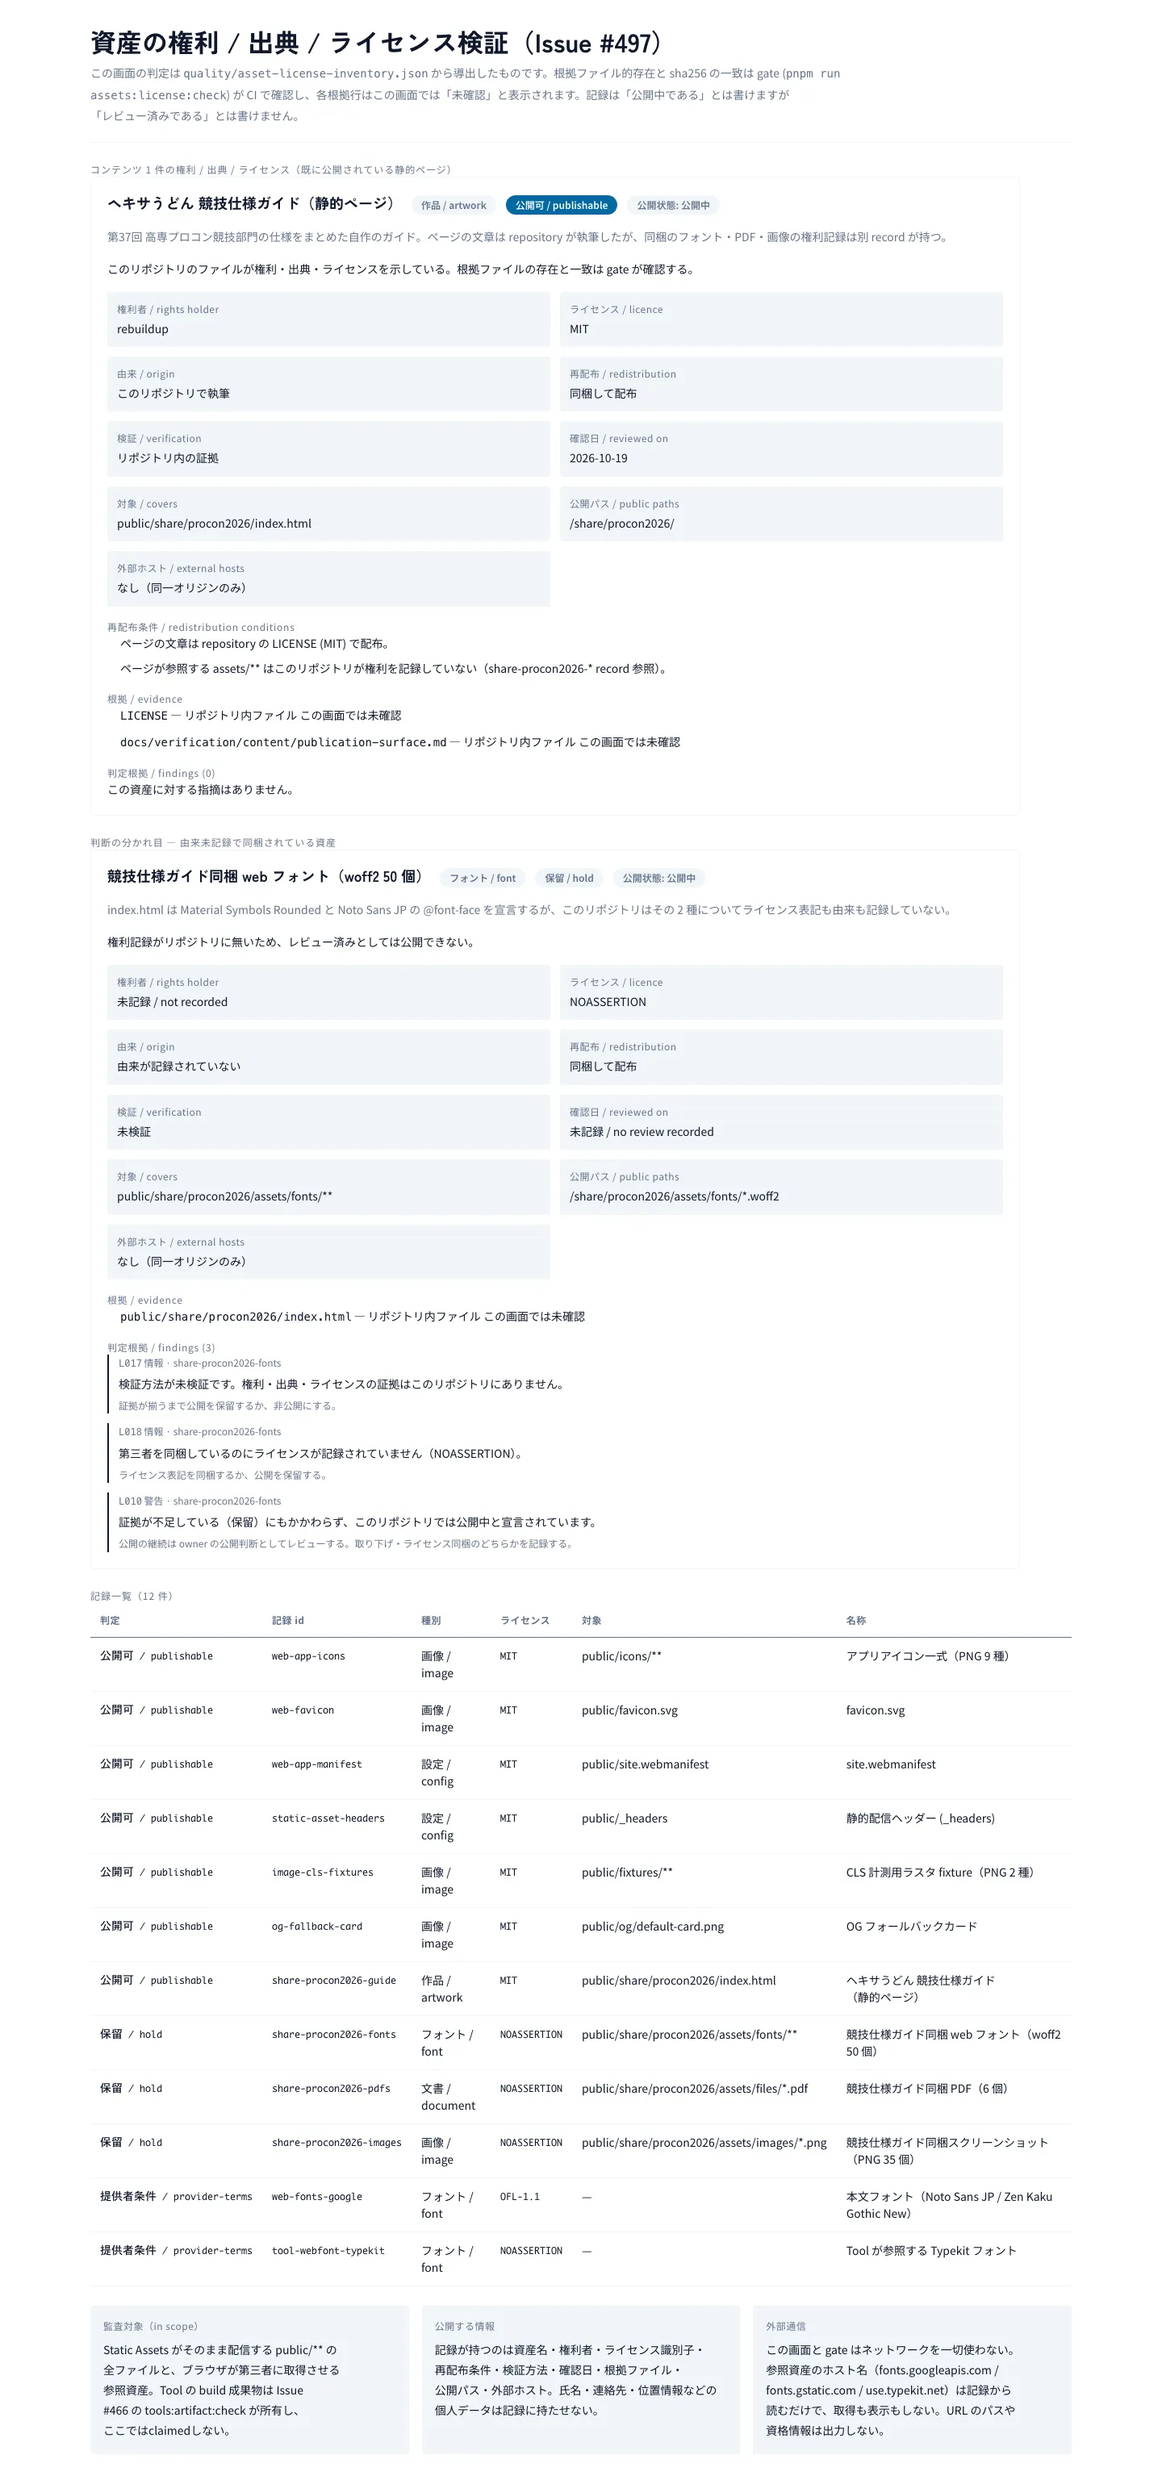
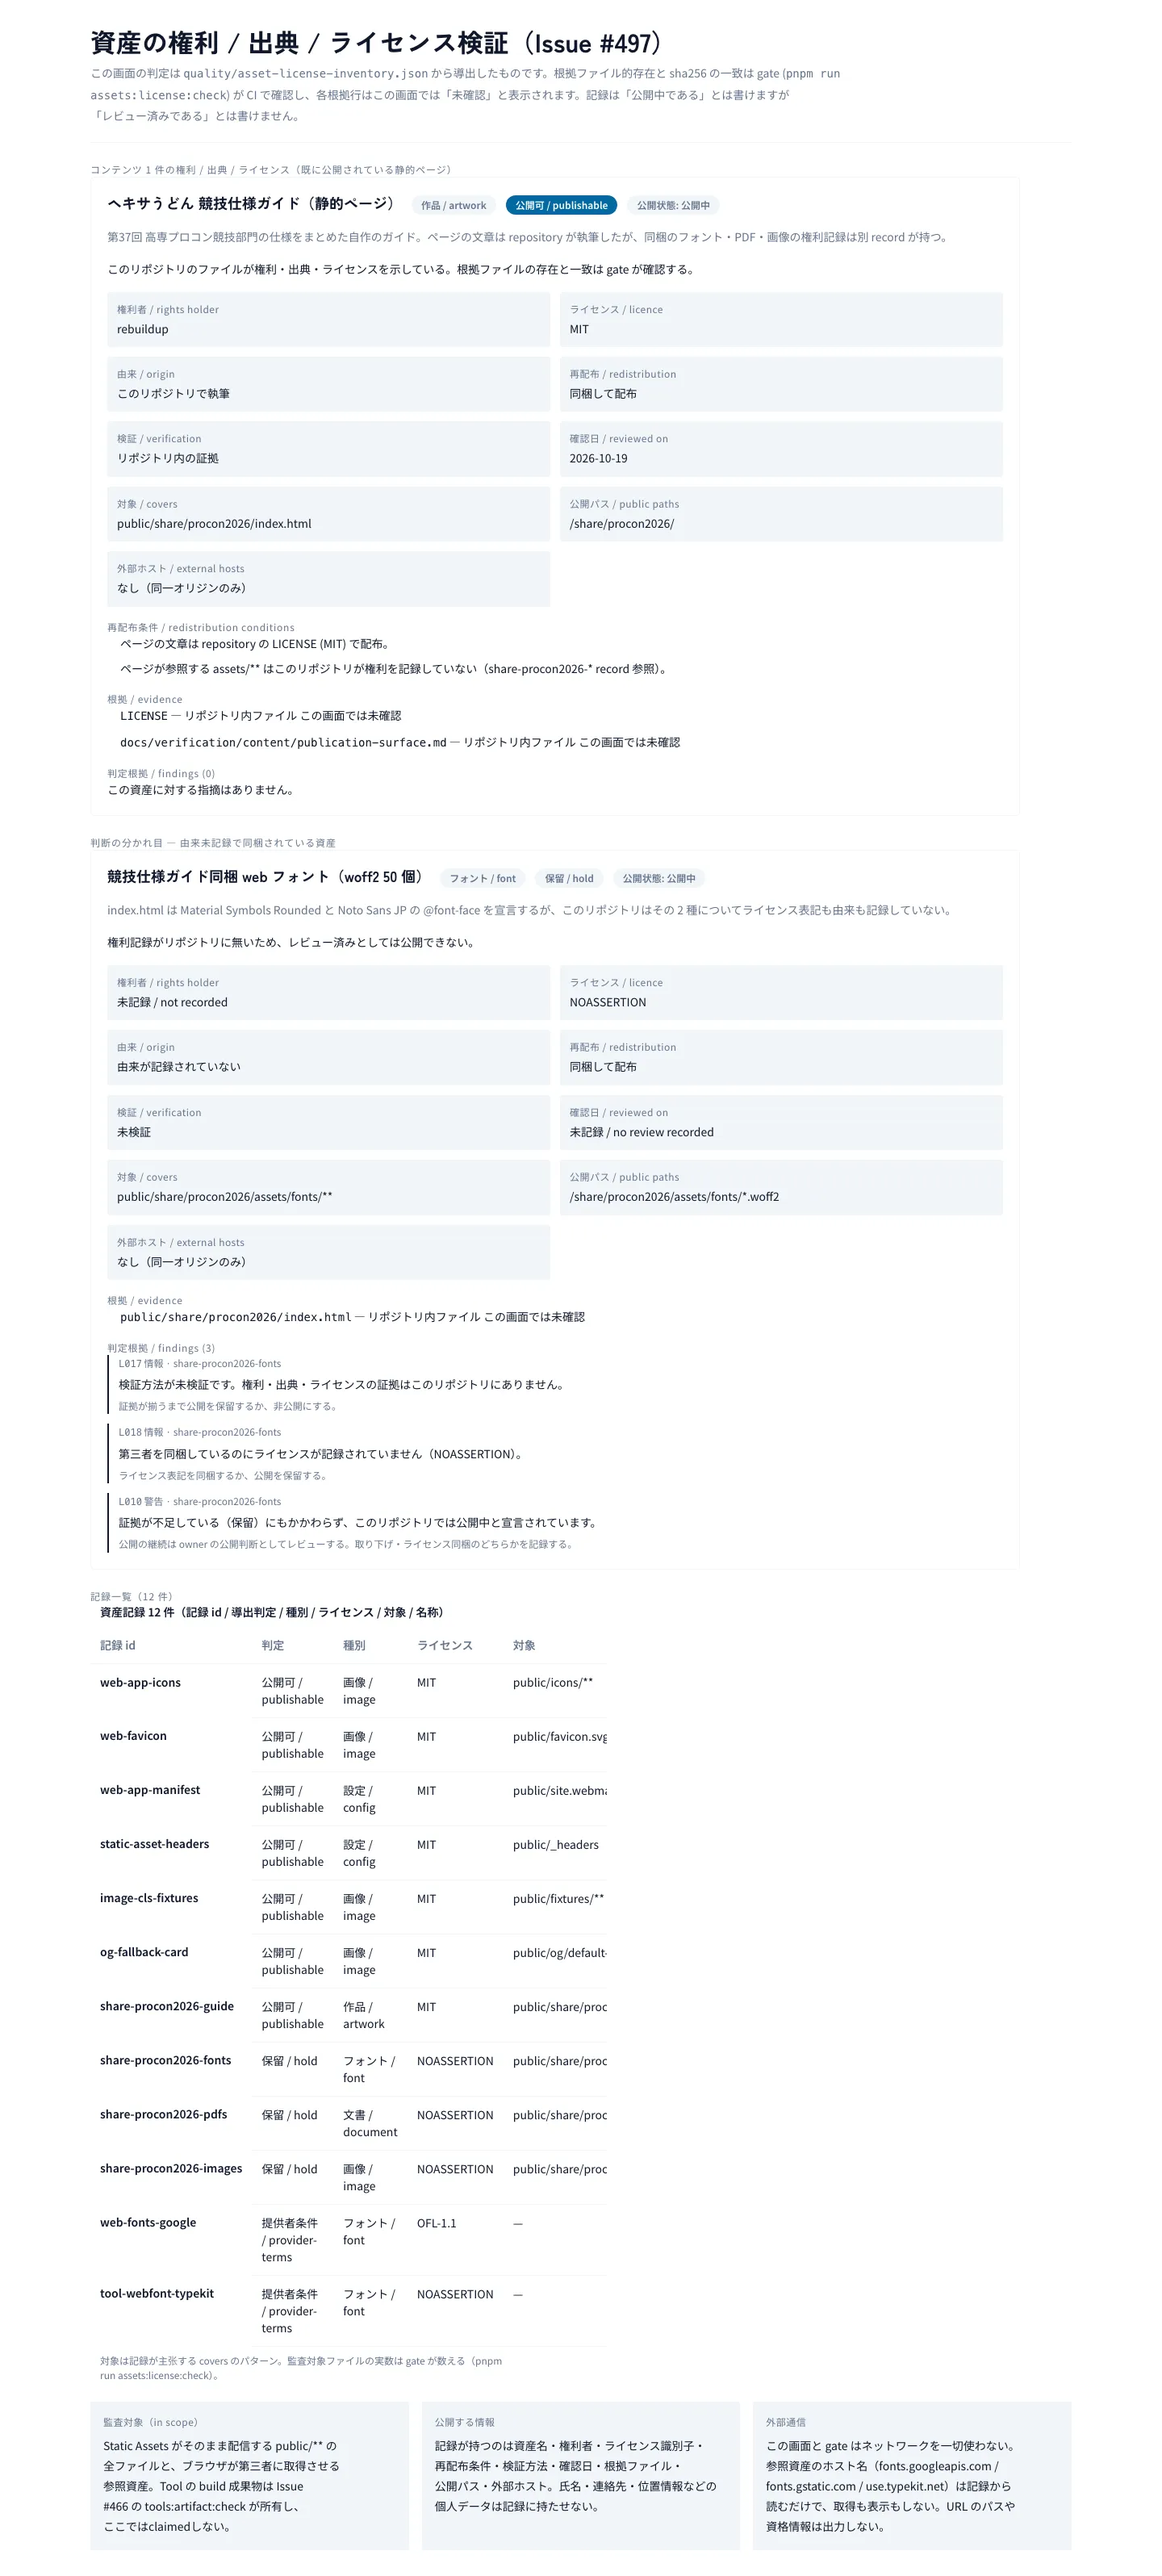
fix(legal): declare the legal surface in the browser-baseline ledger and use the shipped DataTable (#497)
Two gates the new obligation tripped, both about owning the same file
twice:

-  requires every scanned file under  to belong to a
  declared surface, so  is now a surface with a role
  instead of three uncovered files.
-  requires a table to carry a caption and scoped
  headers; the inventory roster now renders the shipped
  primitive instead of a hand-rolled .

The record roster's first column is the record id because the primitive
renders  as the row header cell.

diff --git a/src/legal/AssetLicenseReview.stories.tsx b/src/legal/AssetLicenseReview.stories.tsx
@@ -1,6 +1,7 @@
 import type { Meta, StoryObj } from '@storybook/react';
 import inventoryJson from '../../quality/asset-license-inventory.json';
 import { css, cx } from '../../styled-system/css';
+import { DataTable, type TableColumn, type TableRow } from '../editorial/table-code';
 import { AssetLicenseReview } from './AssetLicenseReview';
 import {
 	type AssetLicenseRecord,
@@ -135,40 +136,6 @@ const sectionTitleClassName = css({
 	color: 'text.muted',
 });
 
-const tableClassName = css({
-	width: '100%',
-	borderCollapse: 'collapse',
-	fontFamily: 'sans',
-	fontSize: 'sm',
-});
-
-const cellClassName = css({
-	borderBottomWidth: '1px',
-	borderBottomStyle: 'solid',
-	borderBottomColor: 'border.subtle',
-	padding: '3',
-	textAlign: 'left',
-	verticalAlign: 'top',
-	color: 'text.default',
-});
-
-const headCellClassName = css({
-	borderBottomWidth: '1px',
-	borderBottomStyle: 'solid',
-	borderBottomColor: 'border.strong',
-	padding: '3',
-	textAlign: 'left',
-	fontSize: 'xs',
-	letterSpacing: '0.04em',
-	color: 'text.muted',
-});
-
-const decisionCellClassName = css({
-	fontFamily: 'mono',
-	whiteSpace: 'nowrap',
-	color: 'text.default',
-});
-
 const scopeClassName = css({
 	display: 'grid',
 	gridTemplateColumns: { base: '1fr', md: 'repeat(3, minmax(0, 1fr))' },
@@ -205,34 +172,46 @@ function claimedFileCount(record: AssetLicenseRecord): string {
 	return record.covers.length === 0 ? '—' : record.covers.join(' , ');
 }
 
+/**
+ * The record roster.
+ *
+ * `DataTable` is the shipped table primitive, so the caption and the
+ * scoped header cells are structural rather than remembered
+ * (`pnpm run a11y:table:code:check` fails a hand-rolled table that is
+ * missing either).
+ */
+const INVENTORY_COLUMNS: readonly TableColumn[] = [
+	// The first column's key names the row header cell the primitive
+	// renders (`columns.slice(1)` supplies the `<td>`s), so the record id
+	// goes first and the derived decision is an ordinary cell after it.
+	{ key: 'record', label: '記録 id' },
+	{ key: 'decision', label: '判定' },
+	{ key: 'kind', label: '種別' },
+	{ key: 'spdx', label: 'ライセンス' },
+	{ key: 'covers', label: '対象' },
+	{ key: 'title', label: '名称' },
+];
+
 function InventoryTable() {
+	const rows: readonly TableRow[] = read.records.map((record) => ({
+		key: record.id,
+		label: record.id,
+		cells: {
+			record: record.id,
+			decision: DECISION_LABEL[reviewFor(record.id).decision],
+			kind: KIND_LABEL[record.kind],
+			spdx: record.license.spdx,
+			covers: claimedFileCount(record),
+			title: record.title,
+		},
+	}));
 	return (
-		<table className={tableClassName}>
-			<thead>
-				<tr>
-					<th className={headCellClassName}>判定</th>
-					<th className={headCellClassName}>記録 id</th>
-					<th className={headCellClassName}>種別</th>
-					<th className={headCellClassName}>ライセンス</th>
-					<th className={headCellClassName}>対象</th>
-					<th className={headCellClassName}>名称</th>
-				</tr>
-			</thead>
-			<tbody>
-				{read.records.map((record) => (
-					<tr key={record.id}>
-						<td className={cx(cellClassName, decisionCellClassName)}>
-							{DECISION_LABEL[reviewFor(record.id).decision]}
-						</td>
-						<td className={cx(cellClassName, decisionCellClassName)}>{record.id}</td>
-						<td className={cellClassName}>{KIND_LABEL[record.kind]}</td>
-						<td className={cx(cellClassName, decisionCellClassName)}>{record.license.spdx}</td>
-						<td className={cellClassName}>{claimedFileCount(record)}</td>
-						<td className={cellClassName}>{record.title}</td>
-					</tr>
-				))}
-			</tbody>
-		</table>
+		<DataTable
+			caption={`資産記録 ${read.records.length} 件（記録 id / 導出判定 / 種別 / ライセンス / 対象 / 名称）`}
+			columns={INVENTORY_COLUMNS}
+			rows={rows}
+			note="対象は記録が主张する covers のパターン。監査対象ファイルの実数は gate が数える（pnpm run assets:license:check）。"
+		/>
 	);
 }
 

diff --git a/docs/verification/legal/asset-license-review.md b/docs/verification/legal/asset-license-review.md
@@ -14,7 +14,7 @@
 | capture 手段 | `node scripts/capture-asset-license-review.mjs`（`.tmp/` に Vite harness を生成 → loopback 配信 → Playwright Chromium → `sharp` で WebP 化） |
 | 描画 CSS | リポジトリの Panda 設定（`postcss.config.mjs` → `panda.config.ts`）を harness の Vite build に渡したもの（実際の `src/styles.css`） |
 | viewport / DPR | 1440 x 900 / 1（`fullPage` 撮影） |
-| 生成物サイズ | 1440 x 3074 px、**199 kB** WebP（quality 80、budget 300 kB） |
+| 生成物サイズ | 1440 x 3192 px、**188 kB** WebP（quality 80、budget 300 kB） |
 | 撮影時の review card 数 | 2（script が `cardsRendered !== 2` で失敗する。空ページ撮影の黙認をしない） |
 | 撮影時の判定 | `[publishable, hold]`（DOM の `data-decision` を実測） |
 | 外部通信 | **0 件（実測）**。gallery は記録の描画のみで、どこにも要求しない。capture script が Playwright の request イベントを数え、loopback 以外が 1 件でもあれば artefact を書かずに失敗する |
